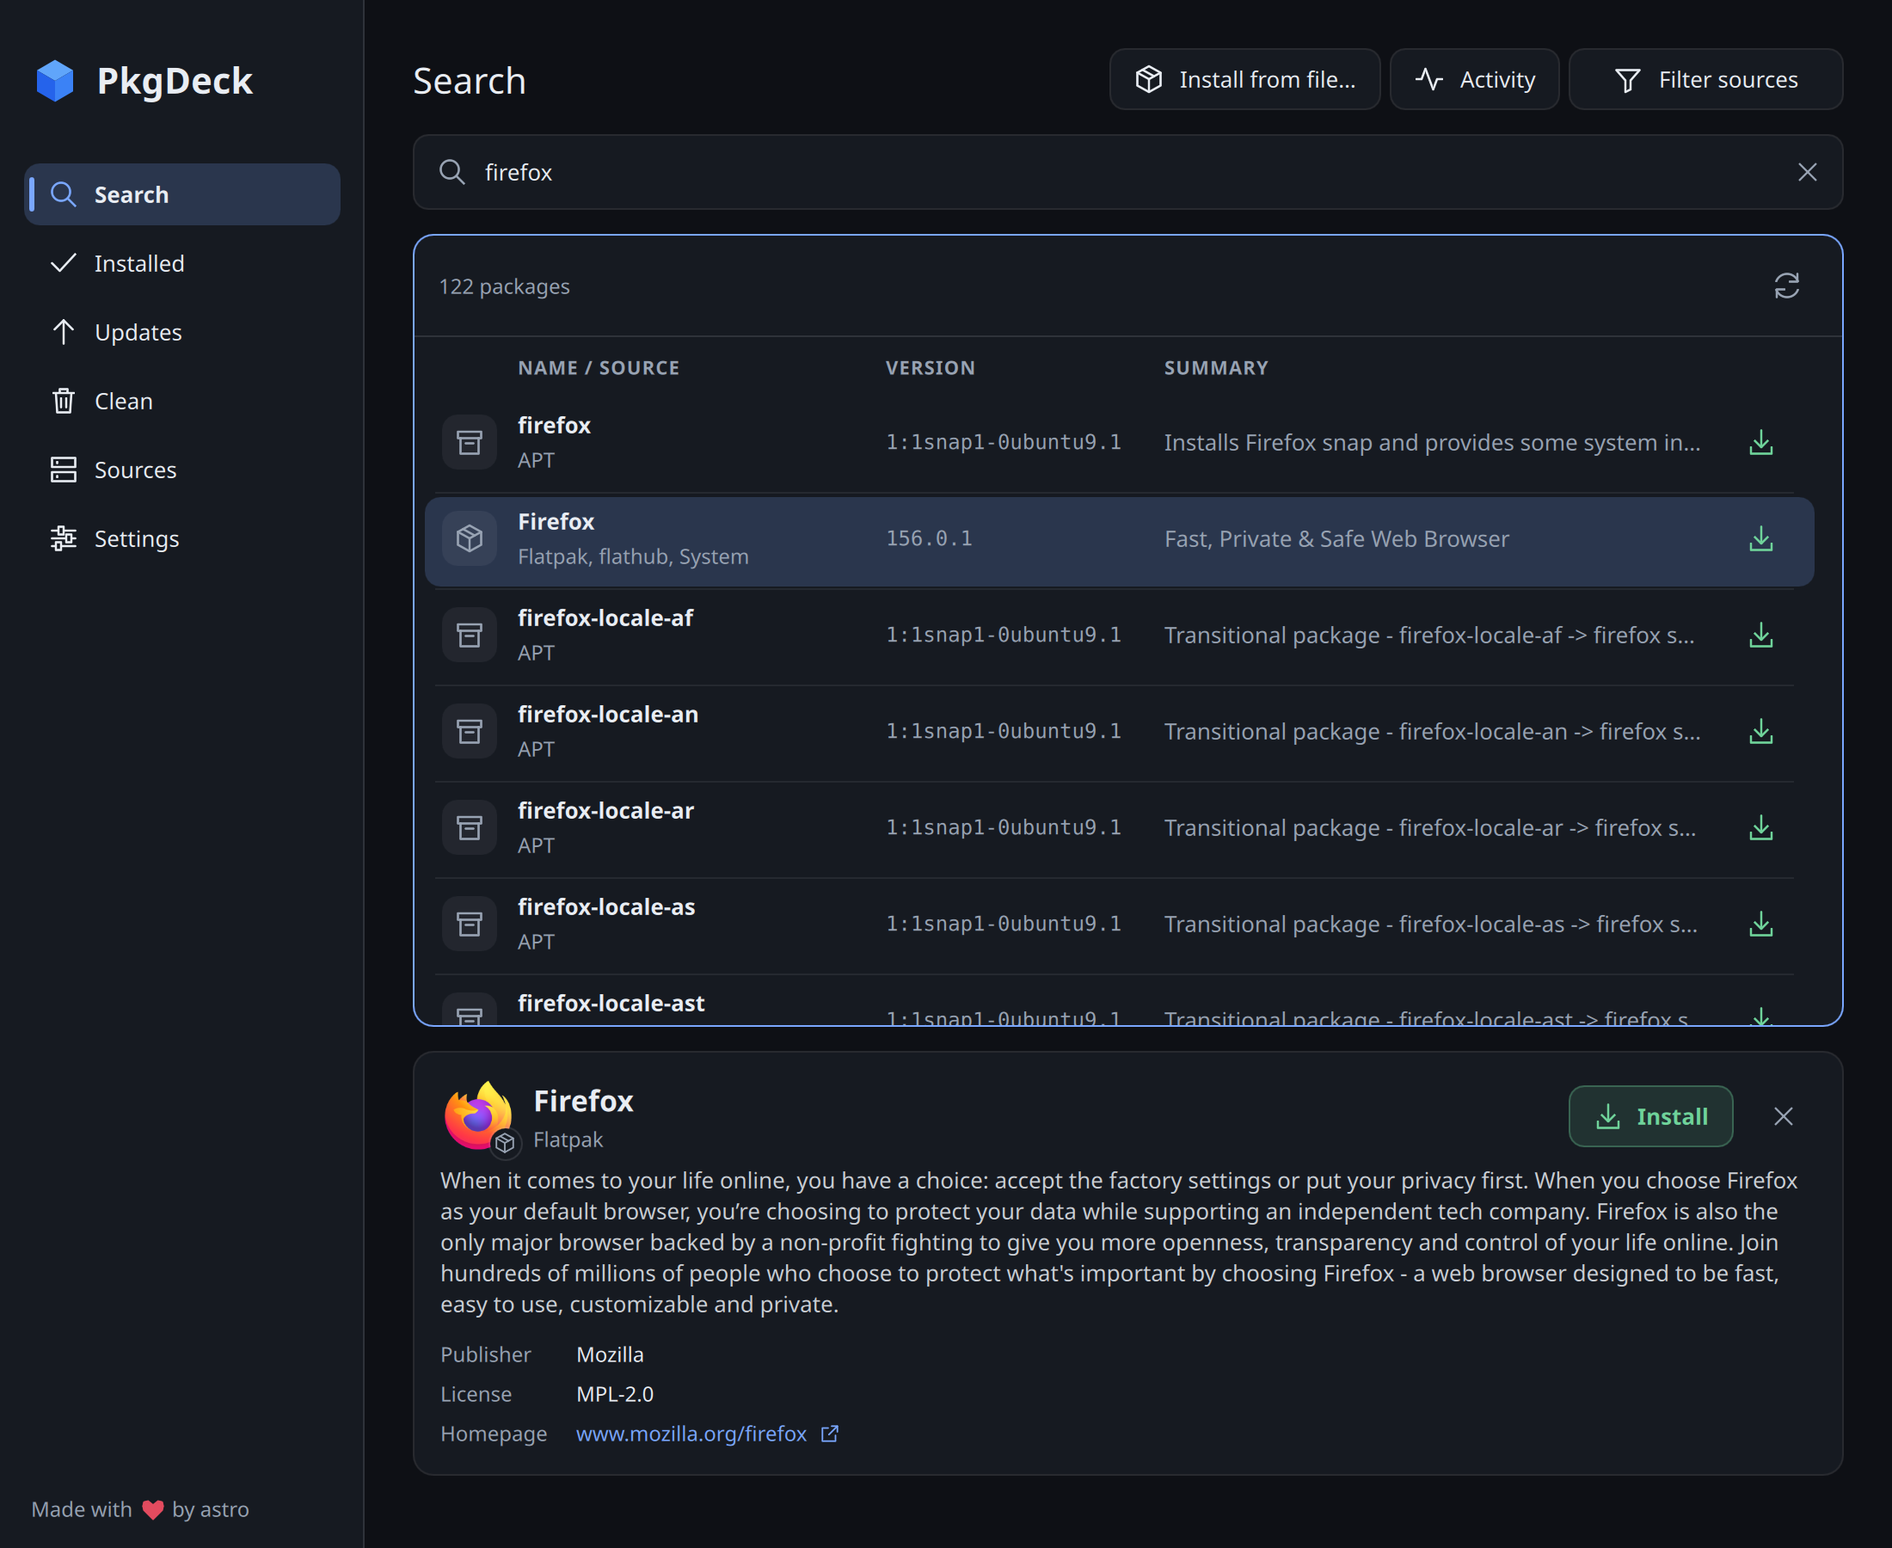
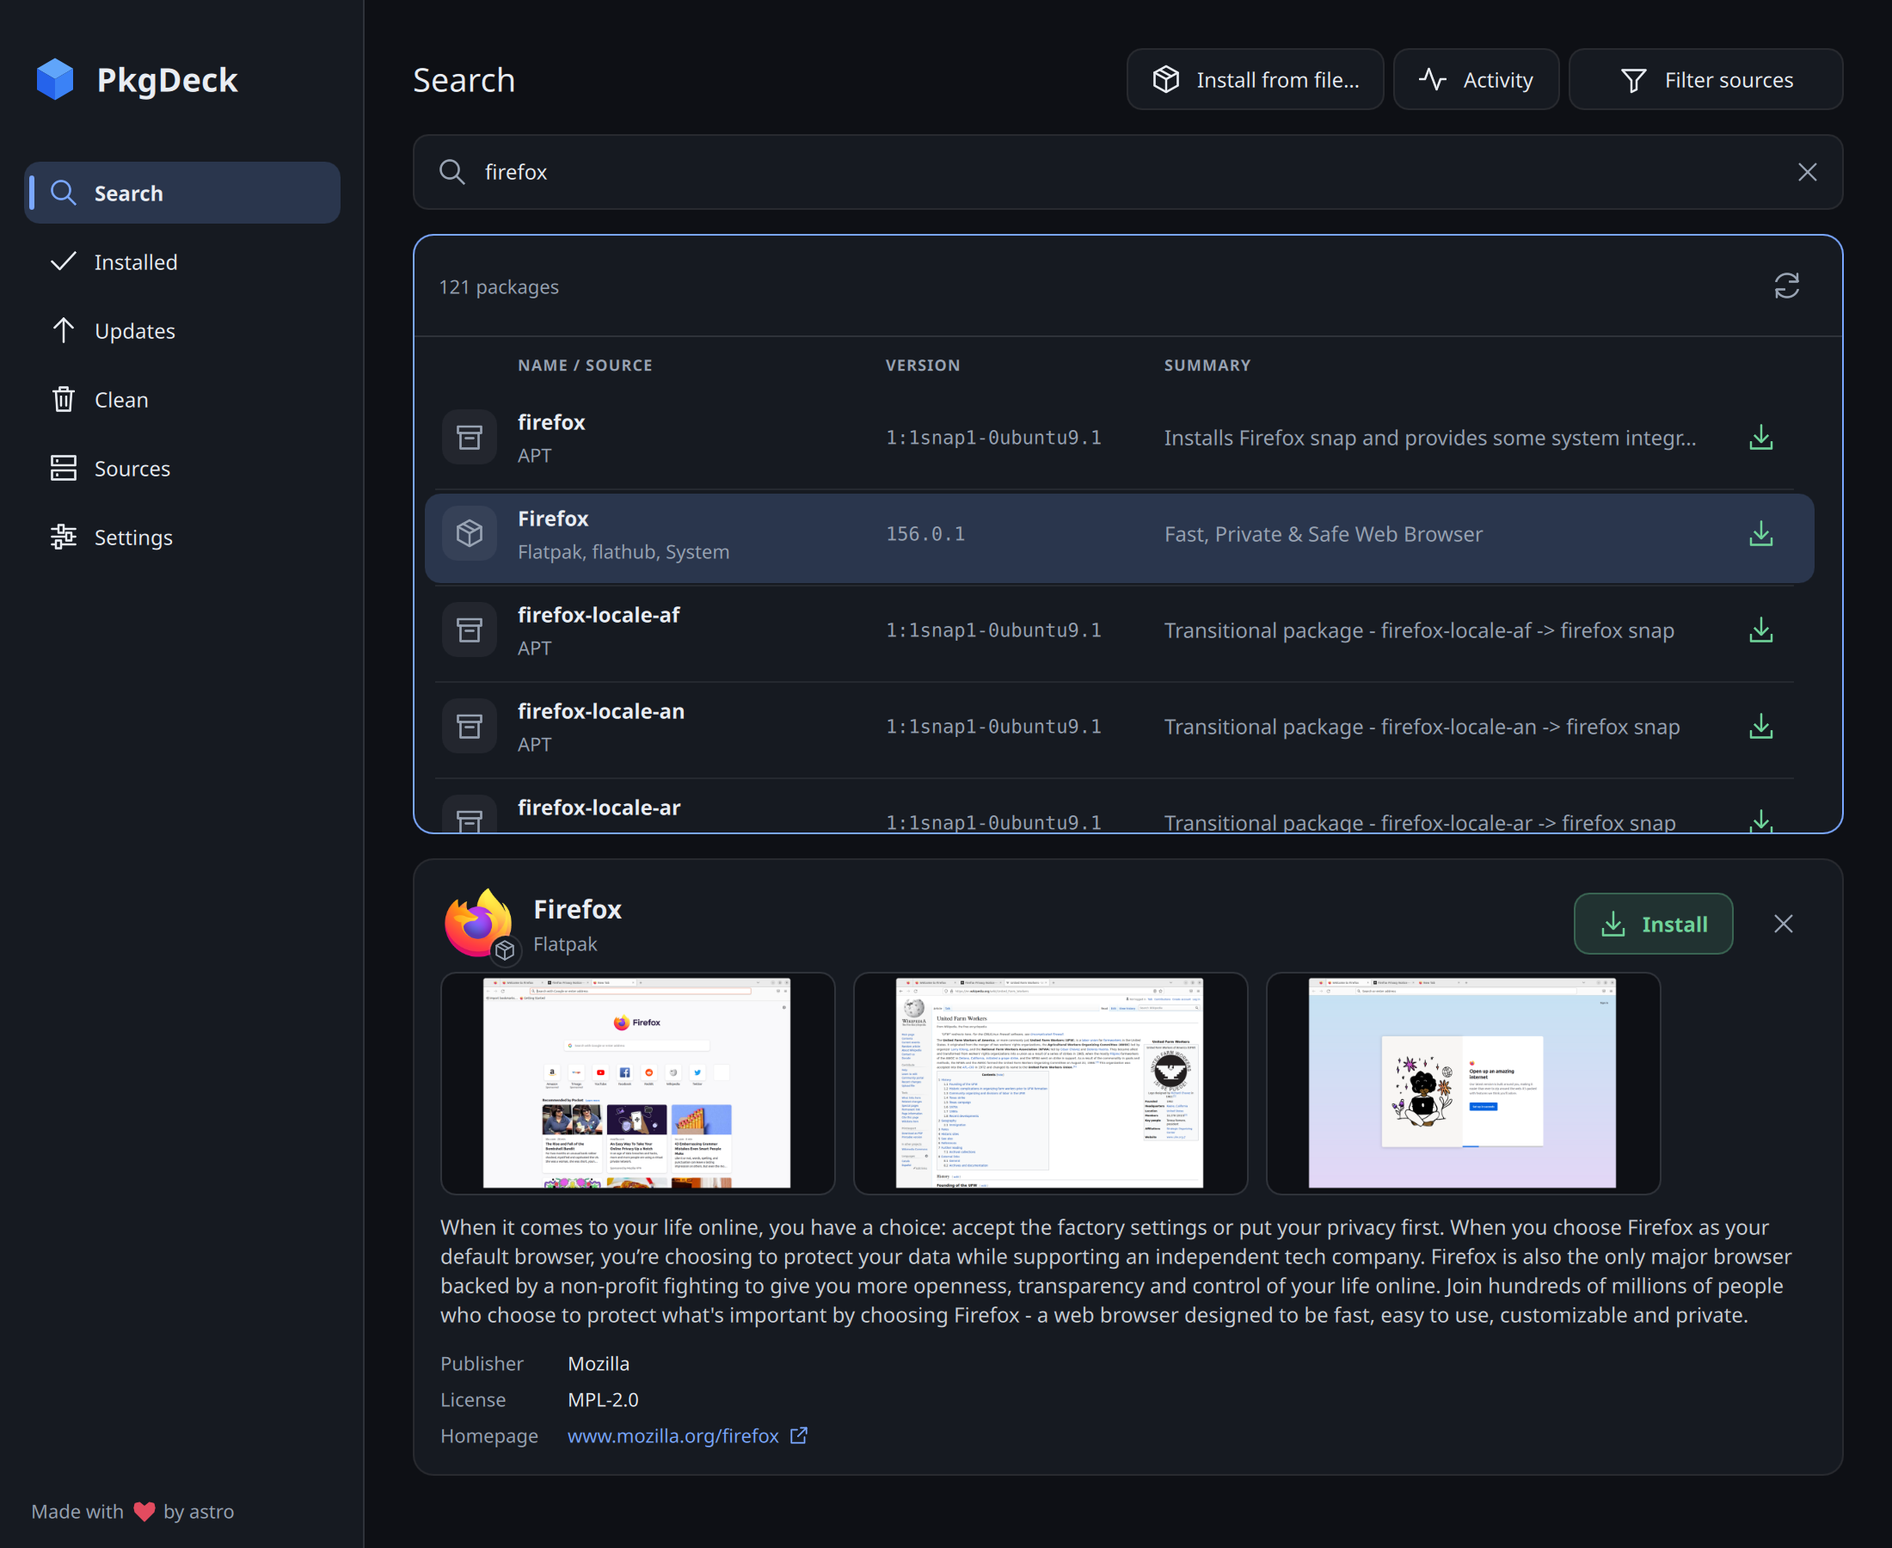
Add a reload button to empty pages, fix the macOS exit crash and two GUI glitches, retake the screenshots, and bump to 0.1.10 (#117)
* Offer a reload button on empty list pages

The reload icon lives in the results heading row, which hides once the
list is empty, so pages like an up-to-date Updates view had no way to
check again besides Ctrl+R. Show a Check again / Reload button in the
empty state when nothing failed and nothing is loading.

Claude-Session: https://claude.ai/code/session_012kfigy7e7kMXqUEvfW5pPg

* Hide the empty-state reload while the heading row shows, and bump to 0.1.10

On a Sources page holding only unavailable sources the heading row stays
visible with its own reload icon, so the empty state no longer adds a
second one.

Claude-Session: https://claude.ai/code/session_012kfigy7e7kMXqUEvfW5pPg

* Lay out the empty-state reload and clear-filters actions side by side

A filtered, empty Updates or Clean page showed both actions stacked,
which the fixed-height empty card clipped.

Claude-Session: https://claude.ai/code/session_012kfigy7e7kMXqUEvfW5pPg

* Repeat the macOS Cocoa startup check and report shutdown crashes

The installed Cocoa smoke test intermittently traps (exit 133) while Qt
tears down after PKGDECK_GUI_READY. Run it five times so the crash shows
up reliably, and on a crash save the macOS crash report with the startup
diagnostics and print the crashed thread's stack.

Claude-Session: https://claude.ai/code/session_012kfigy7e7kMXqUEvfW5pPg

* Stop the details header eliding short source names, and repeat the Cocoa check more
[…]

diff --git a/crates/pkgdeck/qml/Browser.qml b/crates/pkgdeck/qml/Browser.qml
@@ -2866,15 +2866,50 @@ Controls.ApplicationWindow {
                                 symbol: "refresh"
                                 onClicked: root.reload(true)
                             }
-                            ActionButton {
-                                objectName: "clearResultFilters"
+                            // Side by side, so the fixed-height empty card never
+                            // clips a second action; icons only when the labels
+                            // would not fit across the card.
+                            Row {
+                                id: emptyActions
                                 anchors.horizontalCenter: parent.horizontalCenter
-                                visible: !backend.busy && root.readFailures.length === 0 &&
-                                    (root.viewSourceFilters[root.currentView] !== undefined ||
-                                    (root.currentView === "Installed" && (root.installedFilter.length > 0 || root.multiSourceOnly)))
-                                text: "Clear filters"
-                                symbol: "cancel"
-                                onClicked: root.clearVisibleFilters()
+                                spacing: 8
+                                visible: emptyReloadButton.shown || clearResultFilters.shown
+                                readonly property string reloadLabel: root.currentView === "Updates" || root.currentView === "Clean" ? "Check again" : "Reload"
+                                readonly property real labelledWidth: (emptyReloadButton.shown ? reloadMeasure.implicitWidth : 0)
+                                    + (clearResultFilters.shown ? clearMeasure.implicitWidth : 0)
+                                    + (emptyReloadButton.shown && clearResultFilters.shown ? spacing : 0)
+                                readonly property bool iconsOnly: labelledWidth > parent.width
+                                // Hidden copies with their labels, to measure against.
+                                ActionButton { id: reloadMeasure; visible: false; text: emptyActions.reloadLabel; symbol: "refresh" }
+                                ActionButton { id: clearMeasure; visible: false; text: "Clear filters"; symbol: "cancel" }
+                                // The heading row, and its reload button, usually hide
+                                // with an empty list, so an empty page offers its own.
+                                ActionButton {
+                                    id: emptyReloadButton
+                                    objectName: "emptyReloadButton"
+                                    // Not `visible`, which reads false while the row is hidden.
+                                    readonly property bool shown: !backend.busy && !root.loadStopped && root.readFailures.length === 0 &&
+                                        results.count === 0 && root.currentView !== "Search" && !resultsHeadingRow.visible
+                                    visible: shown
+                                    text: emptyActions.iconsOnly ? "" : emptyActions.reloadLabel
+                                    symbol: "refresh"
+                                    Accessible.name: emptyActions.reloadLabel
+                                    tooltipText: emptyActions.reloadLabel + " (Ctrl+R)"
+                                    onClicked: root.reload(true)
+                                }
+                                ActionButton {
+                                    id: clearResultFilters
+                                    objectName: "clearResultFilters"
+                                    readonly property bool shown: !backend.busy && root.readFailures.length === 0 &&
+                                        (root.viewSourceFilters[root.currentView] !== undefined ||
+                                        (root.currentView === "Installed" && (root.installedFilter.length > 0 || root.multiSourceOnly)))
+                                    visible: shown
+                                    text: emptyActions.iconsOnly ? "" : "Clear filters"
+                                    symbol: "cancel"
+                                    Accessible.name: "Clear filters"
+                                    tooltipText: emptyActions.iconsOnly ? "Clear filters" : ""
+                                    onClicked: root.clearVisibleFilters()
+                                }
                             }
                         }
                     }
@@ -3061,7 +3096,9 @@ Controls.ApplicationWindow {
                             Layout.fillWidth: true
                             spacing: 6
                             Controls.CheckBox {
+                                id: repositoryEnabled
                                 objectName: "repositoryEnabled"
+                                Layout.preferredWidth: 28
                                 visible: root.repositoryEditable(modelData)
                                 checked: modelData.enabled
                                 enabled: !backend.busy
@@ -3070,15 +3107,30 @@ Controls.ApplicationWindow {
                                     root.repositoryChange(modelData, "set_enabled", {enabled: checked});
                                     checked = Qt.binding(() => modelData.enabled);
                                 }
+                                // The shared indicator, not the platform style's.
+                                indicator: TickBox {
+                                    anchors.centerIn: parent
+                                    ticked: repositoryEnabled.checked
+                                    opacity: repositoryEnabled.enabled ? 1 : 0.45
+                                }
+                                contentItem: Item {}
                             }
                             // Repositories PkgDeck cannot switch show their state in
                             // the same place, read-only, so every title lines up.
                             Controls.CheckBox {
+                                id: repositoryState
                                 objectName: "repositoryState"
+                                Layout.preferredWidth: 28
                                 visible: !root.repositoryEditable(modelData)
                                 checked: modelData.enabled
                                 enabled: false
                                 Accessible.name: (modelData.title || modelData.name) + (modelData.enabled ? " is enabled" : " is disabled")
+                                indicator: TickBox {
+                                    anchors.centerIn: parent
+                                    ticked: repositoryState.checked
+                                    opacity: 0.45
+                                }
+                                contentItem: Item {}
                             }
                             ColumnLayout {
                                 Layout.fillWidth: true

diff --git a/crates/pkgdeck/tests/qml/tst_browser.qml b/crates/pkgdeck/tests/qml/tst_browser.qml
@@ -1287,6 +1287,45 @@ TestCase {
         verify(box.height <= 160);
         verify(!findChild(browser, "columnHeader0").visible);
         compare(findChild(browser, "emptyState").text, "You're up to date");
+        // The heading row hides with an empty list, so the page offers its own reload.
+        const reload = findChild(browser, "emptyReloadButton");
+        verify(reload.visible);
+        compare(reload.text, "Check again");
+    }
+    function test_filtered_empty_updates_show_both_actions_in_the_card() {
+        browser.openView("Updates");
+        fake.rows = "[]";
+        fake.report_state = JSON.stringify({phase: "complete", failures: []});
+        browser.viewSourceFilters = ({Updates: ["apt"]});
+        waitForRendering(browser.contentItem);
+        const box = findChild(browser, "resultsBox");
+        const reload = findChild(browser, "emptyReloadButton");
+        const clear = findChild(browser, "clearResultFilters");
+        verify(reload.visible);
+        verify(clear.visible);
+        // Side by side, both inside the fixed-height empty card.
+        compare(clear.mapToItem(box, 0, 0).y, reload.mapToItem(box, 0, 0).y);
+        for (const button of [reload, clear]) {
+            const at = button.mapToItem(box, 0, 0);
+            verify(at.y >= 0 && at.y + button.height <= box.height);
+        }
+        compare(reload.text, "Check again");
+        compare(clear.text, "Clear filters");
+        // At the minimum width the labels would not fit across the card, so
+        // both keep only their icons and stay inside it.
+        browser.width = 360;
+        waitForRendering(browser.contentItem);
+        compare(reload.text, "");
+        compare(clear.text, "");
+        compare(reload.Accessible.name, "Check again");
+        for (const button of [reload, clear]) {
+            const at = button.mapToItem(box, 0, 0);
+            verify(at.x >= 0 && at.x + button.width <= box.width);
+            verify(at.y >= 0 && at.y + button.height <= box.height);
+        }
+        browser.viewSourceFilters = ({});
+        verify(reload.visible);
+        verify(!clear.visible);
     }
     function test_new_search_does_not_show_previous_query_results() {
         browser.openView("Search");
@@ -1926,6 +1965,12 @@ TestCase {
         tryVerify(() => list.itemAtIndex(0) !== null);
         verify(!findChild(list.itemAtIndex(0), "repositoryEnabled").visible);
         verify(!findChild(list.itemAtIndex(0), "removeRepositoryButton").visible);
+        // Read-only and switchable rows use the shared indicator, not the
+        // platform style's, so they look the same on every desktop.
+        const state = findChild(list.itemAtIndex(0), "repositoryState");
+        verify(state.visible);
+        compare(state.indicator.ticked, true);
+        compare(findChild(list.itemAtIndex(0), "repositoryEnabled").indicator.ticked, true);
         dialog.close();
     }
     function test_repository_form_validates_before_submitting() {
@@ -2653,6 +2698,16 @@ TestCase {
         compare(browser.viewItems.length, 2);
         mouseClick(toggle);
         compare(browser.viewItems.length, 1);
+    }
+    function test_sources_with_only_unavailable_entries_show_one_reload() {
+        browser.openView("Sources");
+        fake.rows = JSON.stringify([
+            {kind: "source", name: "npm", source: "npm", summary: "Unavailable", available: false, capabilities: []}
+        ]);
+        tryCompare(findChild(browser, "unavailableSourcesButton"), "visible", true);
+        compare(browser.viewItems.length, 0);
+        verify(findChild(browser, "reloadButton").visible);
+        verify(!findChild(browser, "emptyReloadButton").visible);
     }
     function test_sources_only_show_availability_when_it_differs() {
         browser.openView("Sources");

diff --git a/crates/pkgdeck/qml/PackageDetails.qml b/crates/pkgdeck/qml/PackageDetails.qml
@@ -182,7 +182,9 @@ Rectangle {
                         color: panel.muted
                         font.pointSize: Theme.pointSize(Theme.smallScale)
                         elide: Text.ElideRight
-                        Layout.maximumWidth: implicitWidth
+                        // Rounded up: layouts give whole pixels, and a width
+                        // just under the text's fractional one elides it.
+                        Layout.maximumWidth: Math.ceil(implicitWidth)
                         Layout.fillWidth: true
                     }
                     Controls.Label {
@@ -470,7 +472,7 @@ Rectangle {
                                 Layout.row: panel.facts.length
                                 Layout.column: 1
                                 Layout.fillWidth: true
-                                Layout.maximumWidth: implicitWidth
+                                Layout.maximumWidth: Math.ceil(implicitWidth)
                                 hoverEnabled: true
                                 Accessible.role: Accessible.Link
                                 Accessible.name: "Homepage " + panel.homepage

diff --git a/crates/pkgdeck/tests/qml/tst_components.qml b/crates/pkgdeck/tests/qml/tst_components.qml
@@ -261,6 +261,20 @@ TestCase {
         tryVerify(() => details.idealHeight < 130, 1000, "ideal height " + details.idealHeight);
     }
 
+    function test_details_header_and_homepage_never_elide_short_text() {
+        const details = createTemporaryObject(detailsComponent, test,
+            {selected: row("Firefox", {source: "flatpak"}), detailMatchesSelection: true,
+             sourceName: (id) => id === "flatpak" ? "Flatpak" : id});
+        details.detailsData = {homepage: "https://www.mozilla.org/firefox"};
+        waitForRendering(details);
+        // Fractional text widths must not round down into an ellipsis.
+        const subtitle = findChild(details, "detailsSubtitle");
+        compare(subtitle.text, "Flatpak");
+        verify(!subtitle.truncated);
+        const link = findChild(details, "homepageLink");
+        verify(link.visible);
+        verify(!link.contentItem.children[0].truncated);
+    }
     function test_details_show_facts_a_safe_link_and_folded_dependencies() {
         App.Theme.reduceMotion = true;
         const details = createTemporaryObject(detailsComponent, test,

diff --git a/crates/pkgdeck/native/main.cpp b/crates/pkgdeck/native/main.cpp
@@ -7,6 +7,23 @@
 #include <QQmlApplicationEngine>
 #include <QUrl>
 
+#include <cstdio>
+
+namespace {
+// Qt unloads its plugins from a static destructor once the process exits, and
+// logs each unload when plugin debugging is on. On macOS the default handler
+// sends that through Apple's unified logging, whose Qt-side static state has
+// already been destroyed by then, and the stale free traps (SIGTRAP). After the
+// event loop, write messages straight to stderr, which needs no such state.
+void shutdownMessageHandler(QtMsgType, const QMessageLogContext &context, const QString &message) {
+    QByteArray line;
+    if (context.category && qstrcmp(context.category, "default") != 0)
+        line.append(context.category).append(": ");
+    line.append(message.toLocal8Bit()).append('\n');
+    std::fwrite(line.constData(), 1, size_t(line.size()), stderr);
+}
+}
+
 extern "C" int pkgdeck_run_gui(int argc, char **argv, const char *version) {
     QApplication app(argc, argv);
     QCoreApplication::setApplicationName(QStringLiteral("PkgDeck"));
@@ -30,9 +47,14 @@ extern "C" int pkgdeck_run_gui(int argc, char **argv, const char *version) {
             opening = argument;
         }
     }
-    if (!smokeTest && pkgdeck::register_open_handler(engine, opening)) return 0;
+    if (!smokeTest && pkgdeck::register_open_handler(engine, opening)) {
+        qInstallMessageHandler(shutdownMessageHandler);
+        return 0;
+    }
     QObject::connect(&engine, &QQmlApplicationEngine::objectCreationFailed,
                      &app, [] { QCoreApplication::exit(1); }, Qt::QueuedConnection);
     engine.load(QUrl(QStringLiteral("qrc:/qt/qml/io/github/astrovm/PkgDeck/qml/Main.qml")));
-    return app.exec();
+    const int status = app.exec();
+    qInstallMessageHandler(shutdownMessageHandler);
+    return status;
 }
